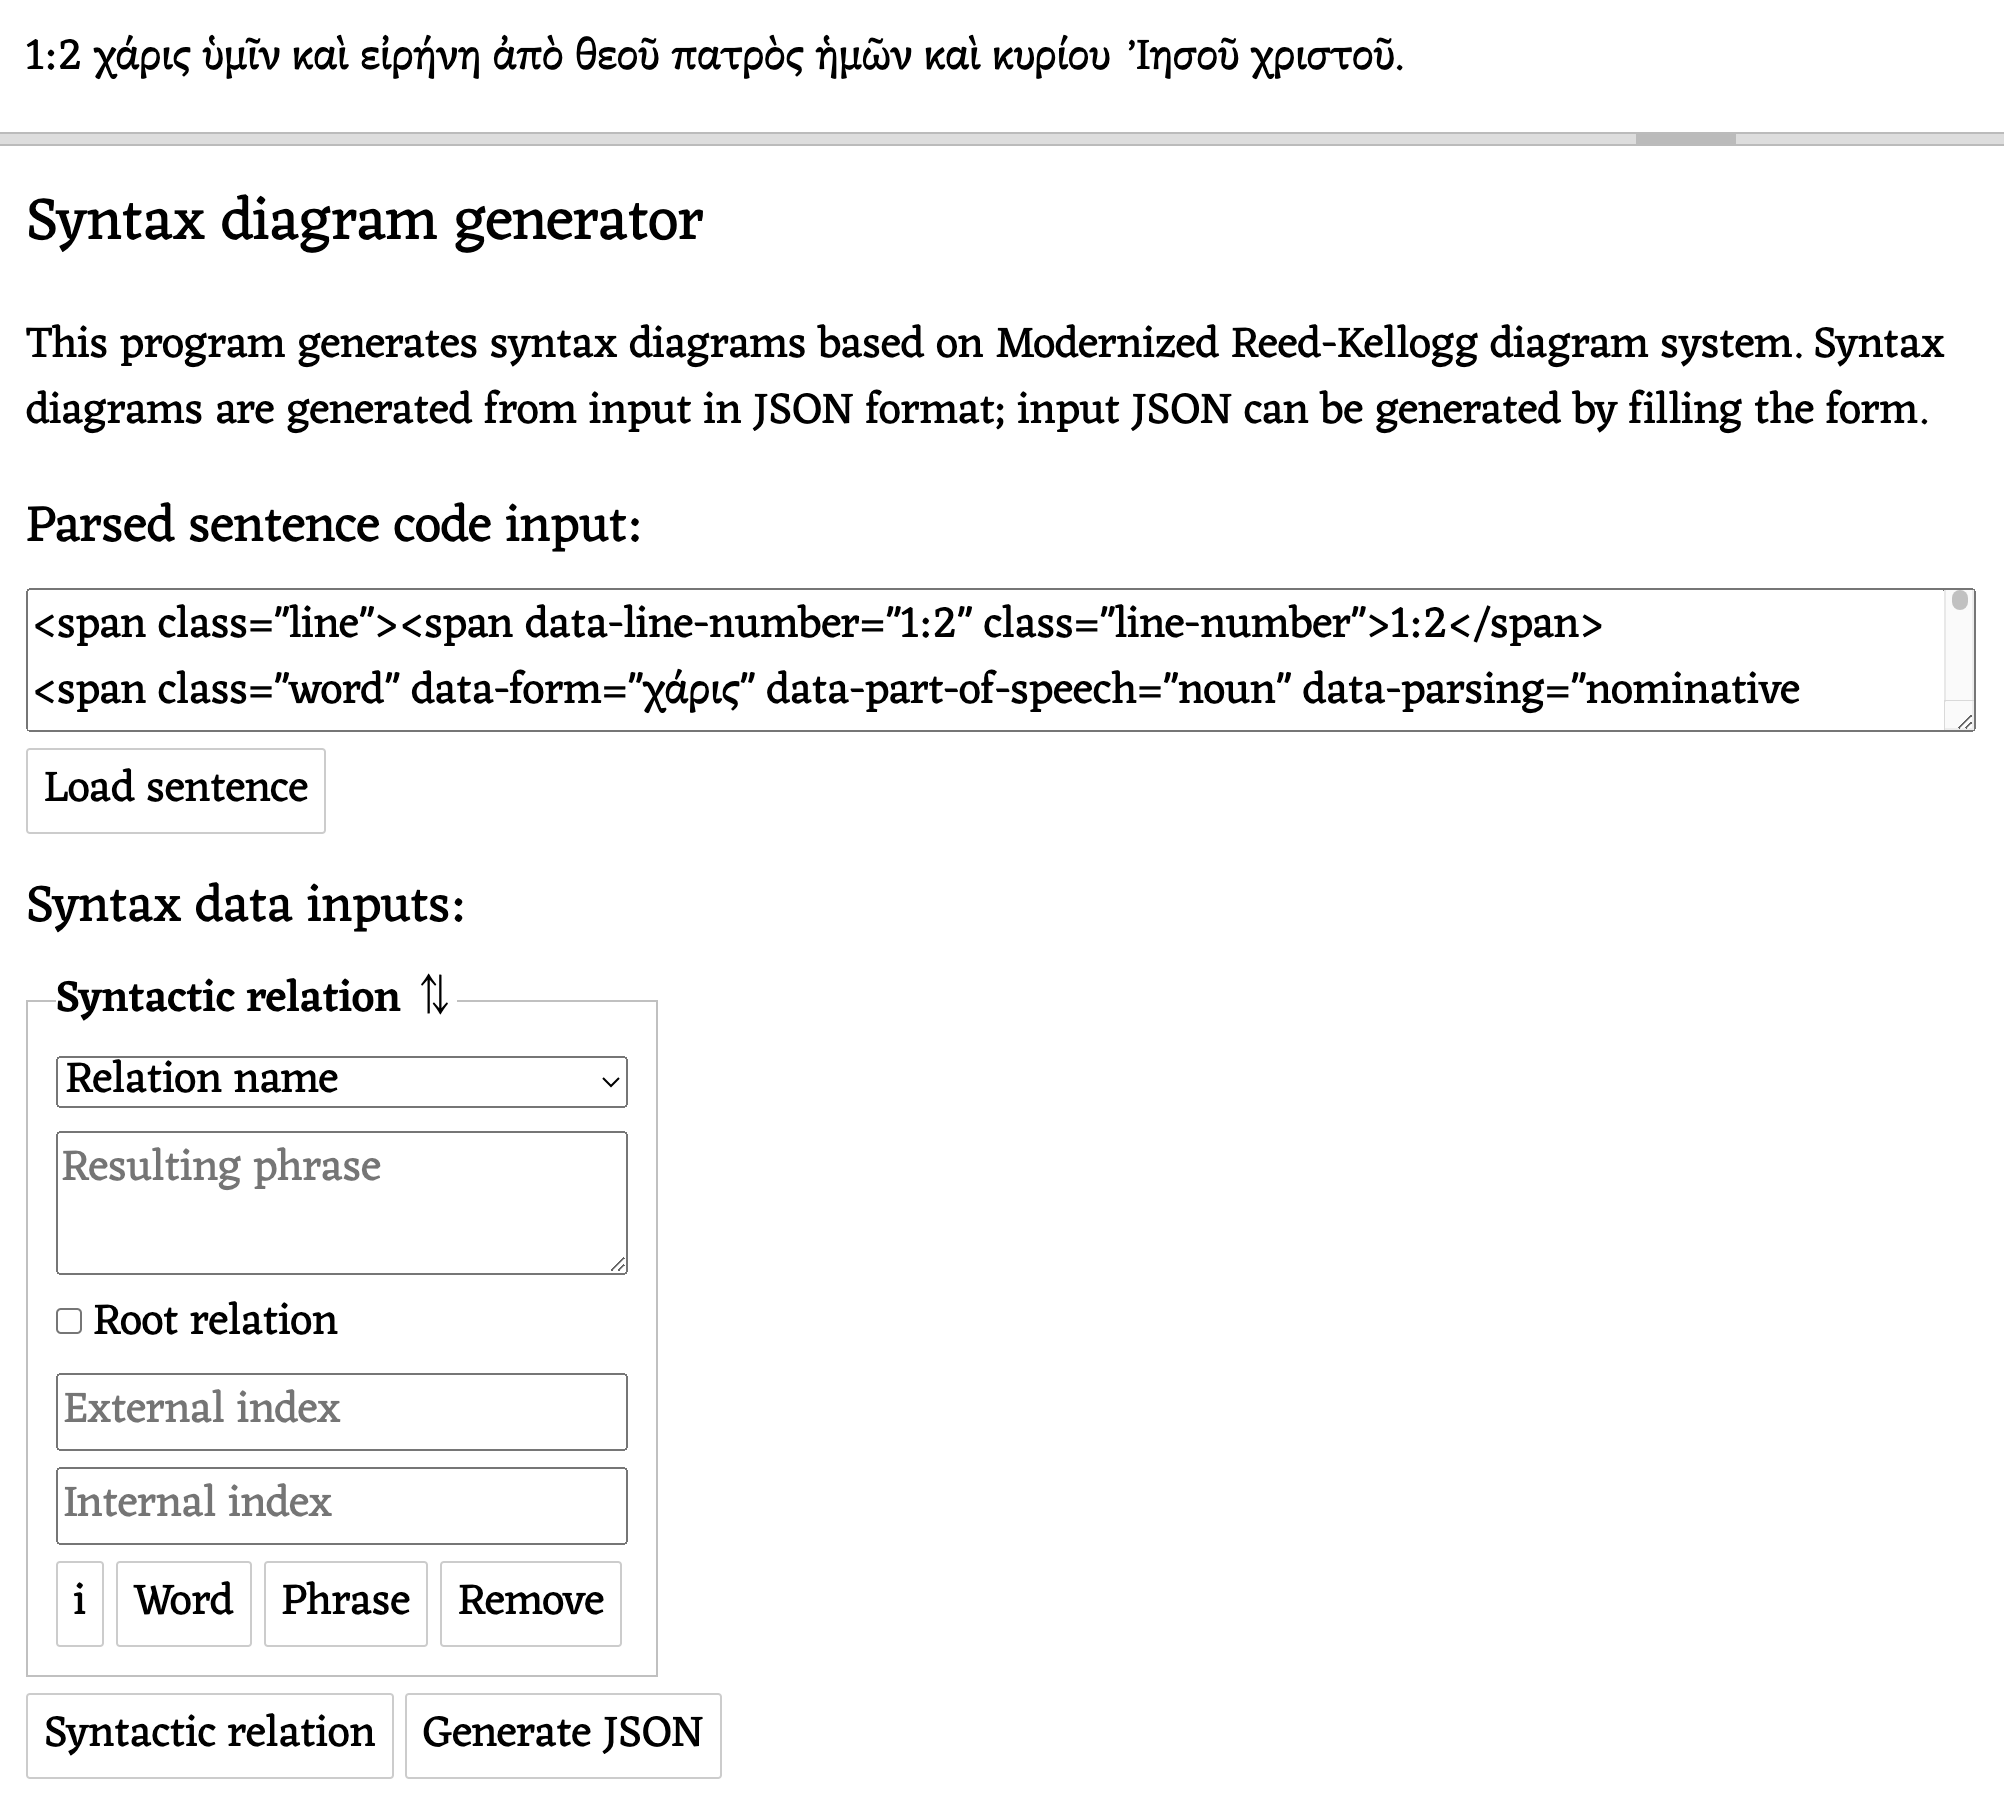
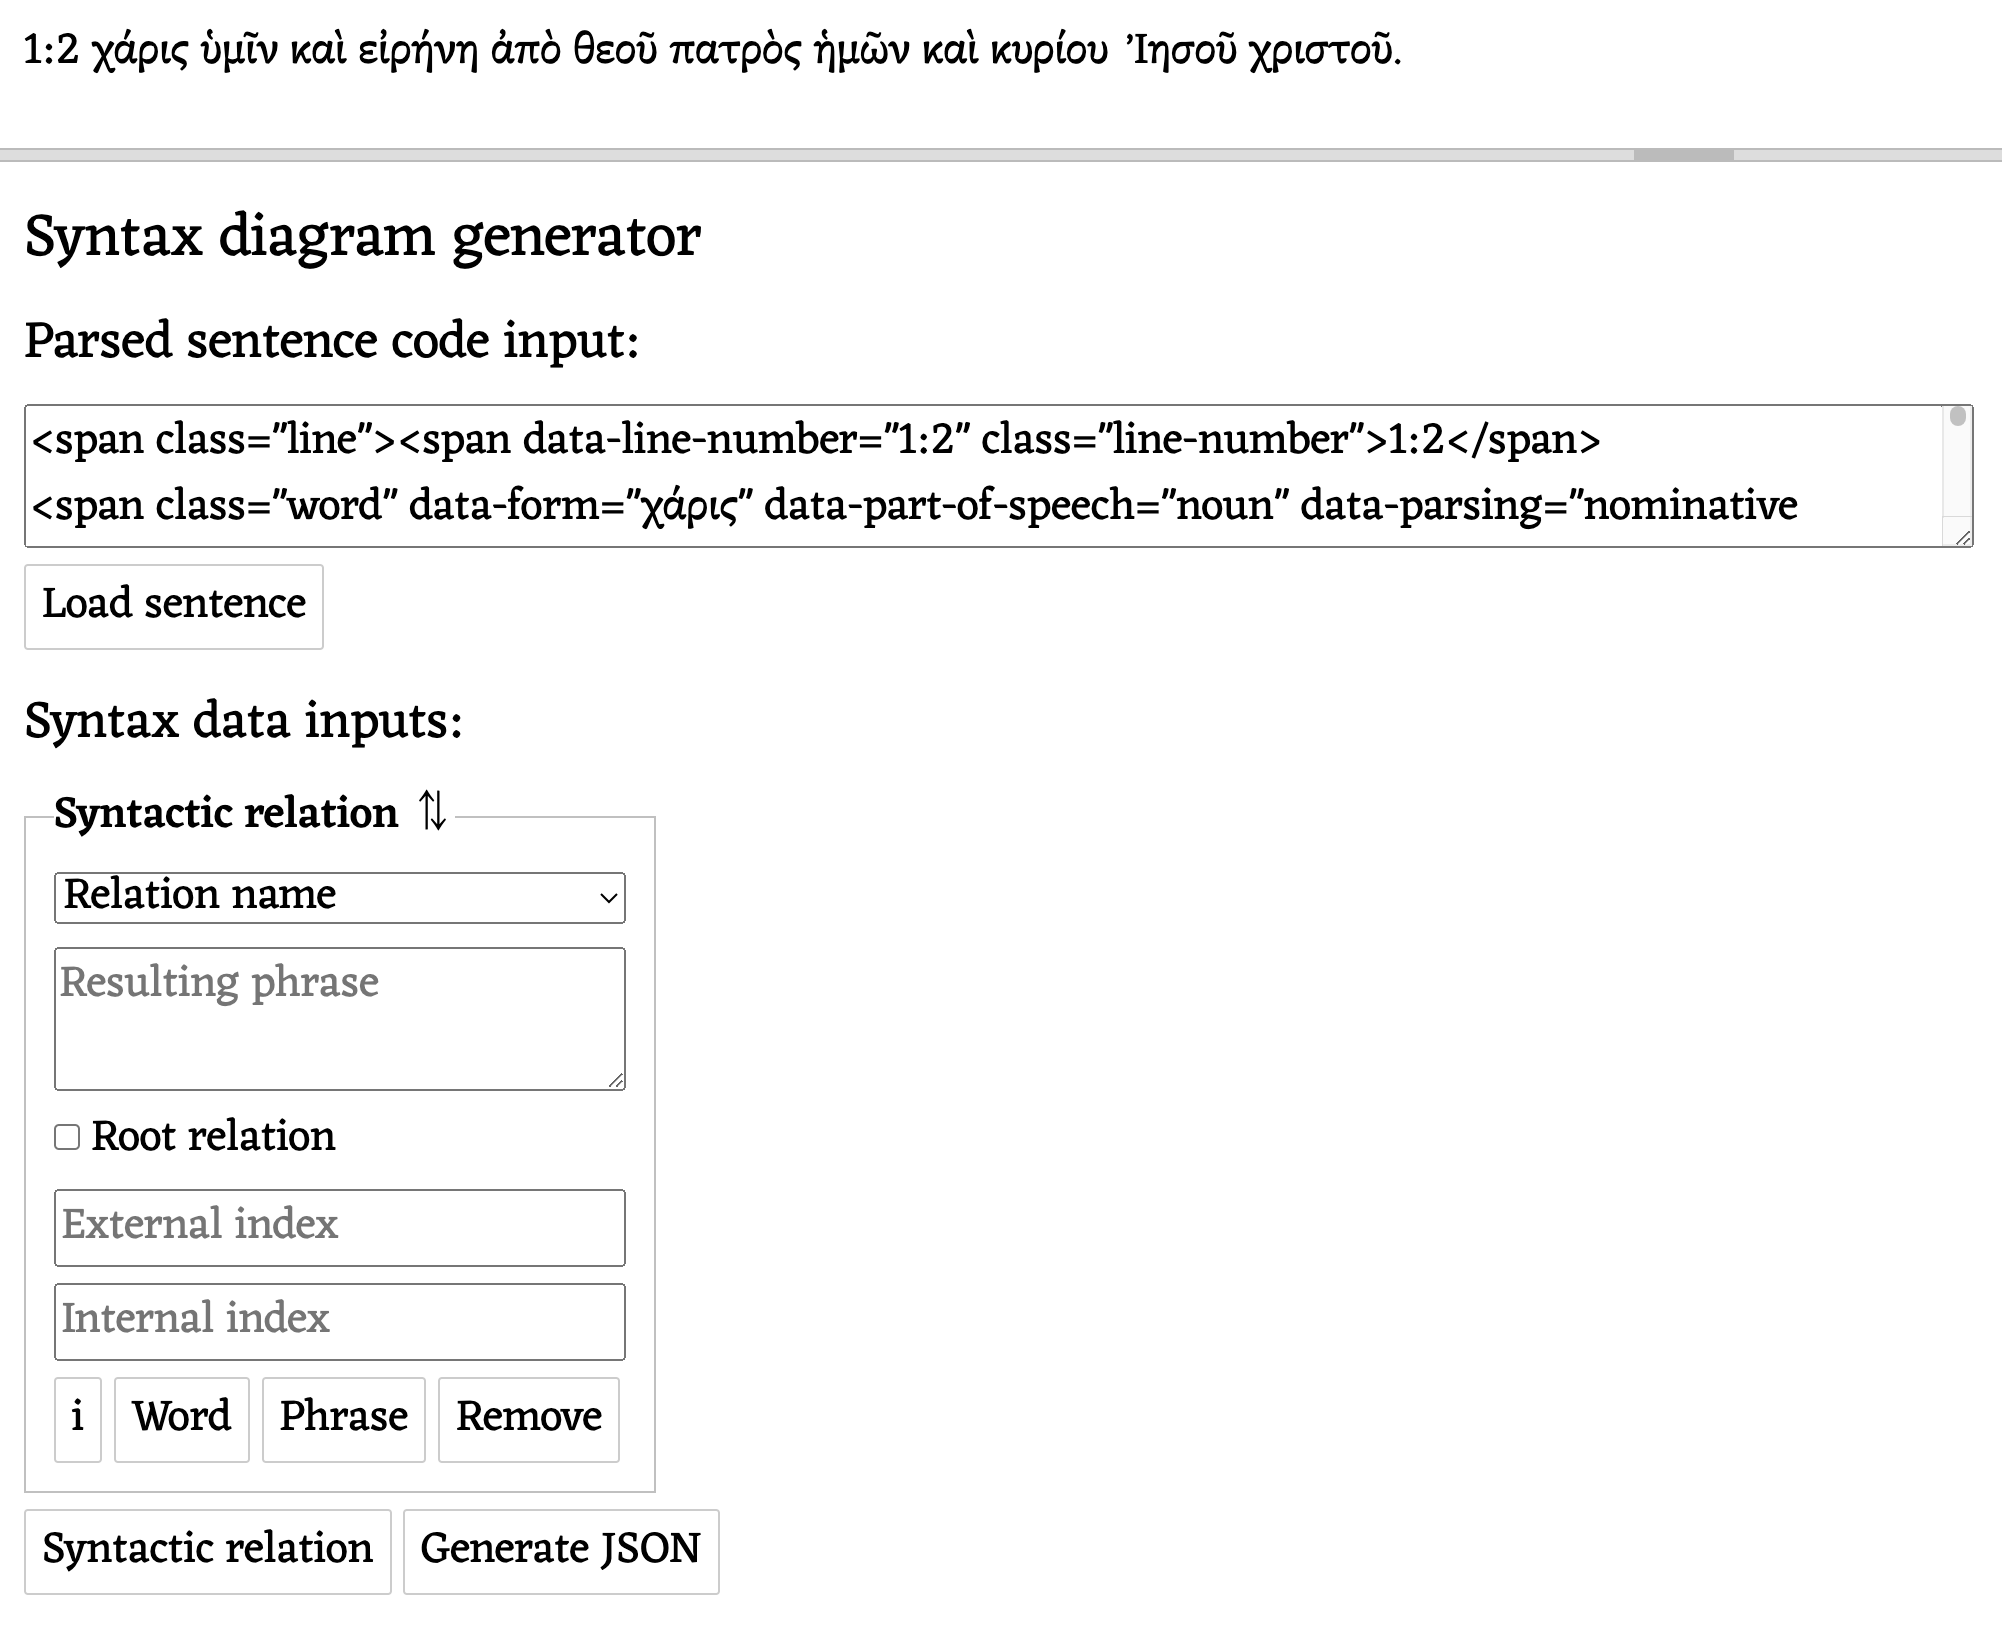
[122] Add Editor's docs part 31

diff --git a/docs/for_editor.html b/docs/for_editor.html
@@ -4116,9 +4116,33 @@ nt_titus_grammar_refs_by_parsedclassics =
 
 <p><img src="img2/diagram_set_typed_02.png" class="w3-border w3-border-dark-gray pc-height-auto max-width-120"></p>
 
-<p>Creating of syntax diagram is being done by manipulating inputs blocks such as that displayed after clicking the button "Load sentence". Let's do it for the sentence from the line 1:2 of the aposte Paul's <em>Epistle to Ephesians</em>.</p>
+<p>Creating of syntax diagram is being done by manipulating inputs blocks such as that displayed after clicking the button "Load sentence".</p>
 
-<p>Inputs blocks are displayed in lines. Each line describes one syntactic relation between words/phrases. The order of the lines is not essential. Only one Syntactic relation can be marked as "Root relation" by checking checkbox. (Predication is root relation in simple sentence; in complex sentence, depending on its type, root relation is either coordination relation or predication relation of the main clause.)</p>
+<p>Inputs blocks are displayed in lines. Each line describes one syntactic relation between words/phrases. The order of the lines is not essential.</p>
+
+<p>Only one Syntactic relation can be marked as "Root relation" by checking checkbox. (Predication (complementation) is root relation in simple sentence; in complex sentence, depending on its type, root relation is either coordination relation or predication (complementation) relation of the main clause.)</p>
+
+<p>Let's fill the form for the sentence from the line 1:2 of the aposte Paul's <em>Epistle to Ephesians</em>. It is the sentence χάρις ὑμῖν καὶ εἰρήνη ἀπὸ θεοῦ πατρὸς ἡμῶν καὶ κυρίου Ἰησοῦ χριστοῦ.</p>
+
+<p>It is better to start with syntactic relations which join words, not phrases, and only join phrase into relation when the phrase itself is analyzed. This approach allows you to click the buttons "Generate JSON" and "Generate diagram" after filling each line of input blocks and so to see the progrees of generating the diagram.</p>
+
+<p>At first we will fill the fields for the phrase "χάρις καὶ εἰρήνη". This phrase has three words, so we need to click three time the button "Word" in order to insert input block for each word. Then the fields of the four input blocks should be filled this way:</p>
+
+<p><img src="img2/diagram_set_typed_03.png" class="w3-border w3-border-dark-gray pc-height-auto max-width-120"></p>
+
+<p>The fields of the left inputs block describe syntax relation itself. We entered "Coordination" as the value of the field "Relation name", the phrase "χάρις καὶ εἰρήνη" as the value of the field "Resulting phrase", the string "phr01" as the value of the field "Internal index". The latter field cannot be empty and should have as the value any unique string, but usully the string "phr" with padded number is being used.</p>
+
+<p>The next three inputs blocks describe the words. The values of "Word form" fields are lemmas of relevant words. The values of "Internal index" fields are unique string which are added automatically, so you need not to bother about them.</p>
+
+<p>The value of the field "Syntactic role" in the inputs block of the word "καί" is "J." which means "junctor". The fields "Syntactic role" in the inputs blocks for the words "χάρις" and "εἰρήνη" are left empty because syntactic roles of the words which are connected by junctor word are not different.</p>
+
+<p>After filling fields of inputs blocks with these values we can generate fragment of the diagram. In order to gerenare frangment of diagram we need temporarily check the checkbox "Root relation", click the button "Generate JSON", and then click the button "Generate diagram".</p>
+
+<p>Three things will happen (a) JSON code will be outputted in the textarea "JSON output", (b) syntax diagram HTML code will be outputted in the textarea "Syntax diagram code output", (c) syntax diagram will be displayed below the heading "Syntax diagram":</p>
+
+<p><img src="img2/diagram_set_typed_04.png" class="w3-border w3-border-dark-gray pc-height-auto max-width-120"></p>
+
+<p>Now let's click the button "Syntactic relation", then the in the new inputs block let's click the buttons "Phrase" and "Word". In the new line of inputs blocks let's enter the values of the fields:</p>
 
 
 

diff --git a/tools/syntax_diagram_generator.html b/tools/syntax_diagram_generator.html
@@ -58,8 +58,8 @@ Copyright (c) Eleutherius Joannides
         <div class="pc-center-pane-maxwidth">
           <h1>Syntax diagram generator</h1>
 
-          <p>This program generates syntax diagrams based on Modernized Reed-Kellogg diagram system. Syntax diagrams are generated from input in JSON format; input JSON can be generated by filling the form.</p>
-          <!--<p>Examples: <a href="syntax_diagram_example_Lk_23_50-51.html">Lk 23:50-51</a>, <a href="syntax_diagram_example_Col_2_16-17.html">Col 2:16-17</a>, <a href="syntax_diagram_example_Col_4_10-11.html">Col 4:10-11</a></p>-->
+          <!--<p>This program generates syntax diagrams based on Modernized Reed-Kellogg diagram system. Syntax diagrams are generated from input in JSON format; input JSON can be generated by filling the form.</p>
+          <p>Examples: <a href="syntax_diagram_example_Lk_23_50-51.html">Lk 23:50-51</a>, <a href="syntax_diagram_example_Col_2_16-17.html">Col 2:16-17</a>, <a href="syntax_diagram_example_Col_4_10-11.html">Col 4:10-11</a></p>-->
 
           <h2>Parsed sentence code input:</h2>
 